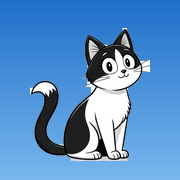
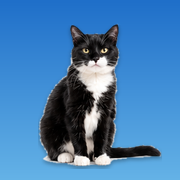
Neues App Symbol mit Foto von Gigio, weiche Uebergaenge zwischen Posen
Claude-Session: https://claude.ai/code/session_01EDnfhvmHbaNJmZydRsCxPo

diff --git a/gigio.js b/gigio.js
@@ -50,8 +50,15 @@ const Gigio = (() => {
   const visible = p => { const yy = p.y + main.getBoundingClientRect().top; return yy > 80 && yy < innerHeight - 20; };
 
   /* ---------- Darstellung ---------- */
+  // Weicher Uebergang: das alte Bild blendet aus, waehrend das neue einblendet
   function setPose(n, federn = true) {
     if (cat.pose === n) return;
+    if (cat.pose && !still) {
+      const alt = box.cloneNode(true); alt.classList.add("ghost"); alt.removeAttribute("tabindex"); alt.removeAttribute("role");
+      squash.appendChild(alt); const ms = federn ? 260 : 110;
+      alt.animate([{ opacity: 1 }, { opacity: 0 }], { duration: ms, easing: "ease-out" }).onfinish = () => alt.remove();
+      img.animate([{ opacity: 0 }, { opacity: 1 }], { duration: ms, easing: "ease-in" });
+    }
     cat.pose = n; const s = SPR[n];
     img.src = `foto/${n}.png`;
     box.style.width = s.w * K + "px"; box.style.height = s.h * K + "px";

diff --git a/index.html b/index.html
@@ -175,6 +175,7 @@ footer a { color: inherit; }
 #gigio-layer { position: absolute; inset: 0; pointer-events: none; z-index: 5; overflow: hidden; overflow: clip; }
 #gigio { position: absolute; left: 0; top: 0; width: 0; height: 0; will-change: transform; }
 #gigio .squash { position: absolute; left: 0; top: 0; transform-origin: 0 0; }
+#gigio .box.ghost { pointer-events: none; }
 #gigio .box { position: absolute; pointer-events: auto; cursor: pointer; -webkit-tap-highlight-color: transparent; filter: drop-shadow(0 3px 4px rgba(0,0,0,.25)); }
 #gigio img { position: absolute; inset: 0; width: 100%; height: 100%; -webkit-user-drag: none; user-select: none; }
 #gigio .lids { position: absolute; inset: 0; width: 100%; height: 100%; opacity: 0; }
